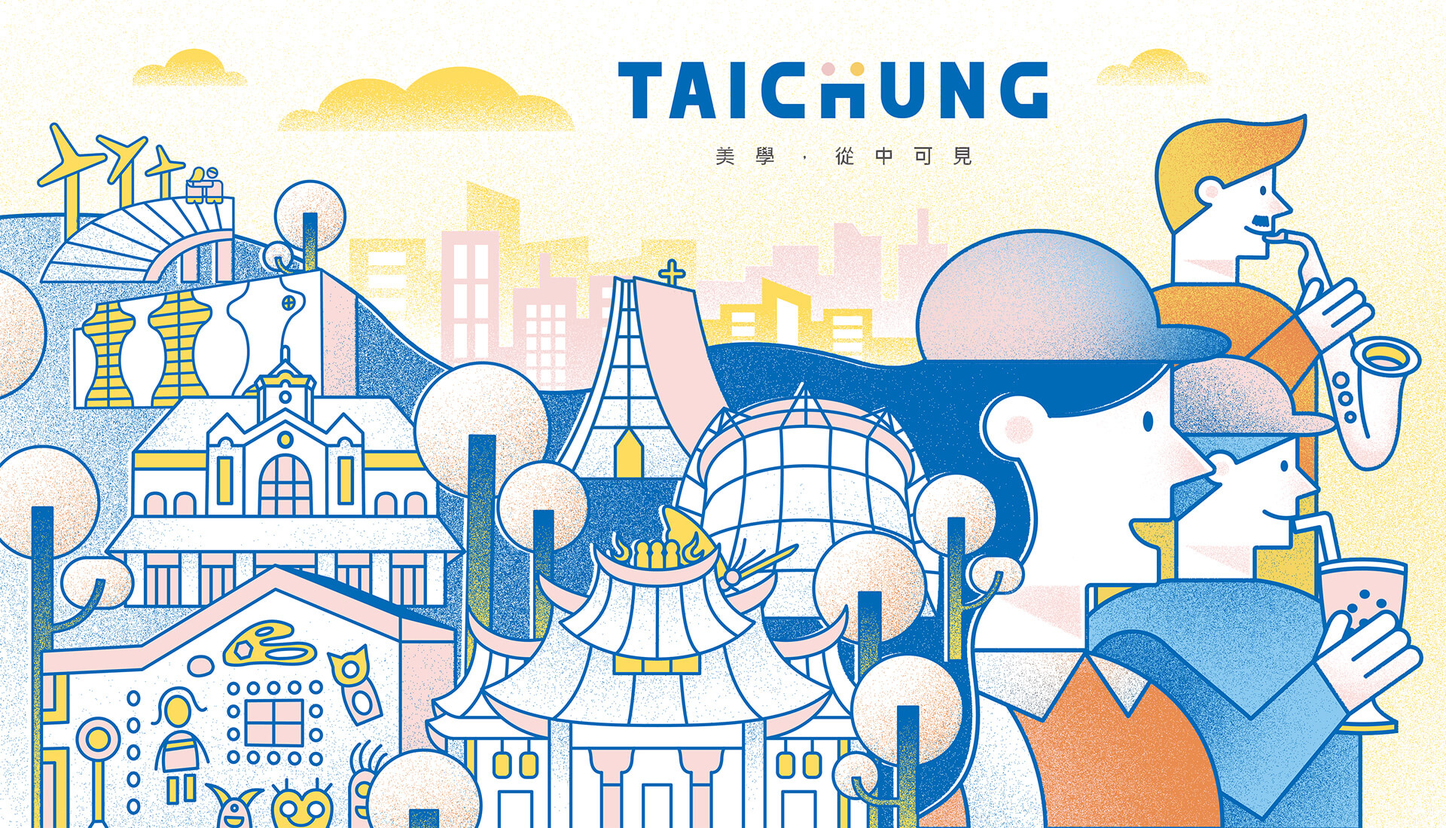
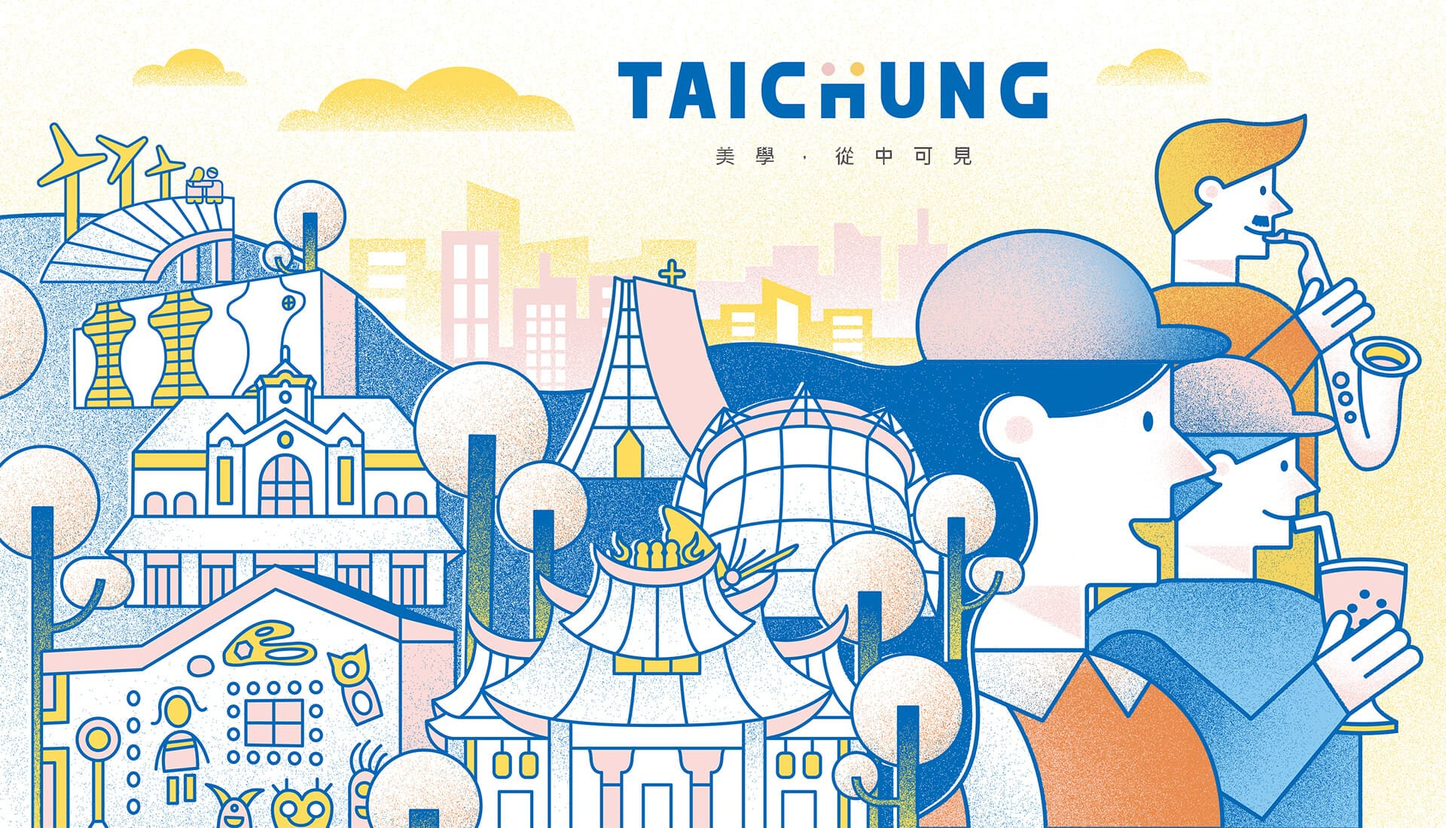
perf: minimize image sizing

diff --git a/pages/works/contents/ui3.vue b/pages/works/contents/ui3.vue
@@ -244,7 +244,7 @@
             loading="lazy"
             width="2000"
             height="7600"
-            src="@/assets/works/ui3/a_3-6.png"
+            src="@/assets/works/ui3/a_3-6.jpg"
             alt=""
           />
           <p class="lh-20 fz-14-l ls-5 gray2 pt-16 text-align-right d-sm-none">
